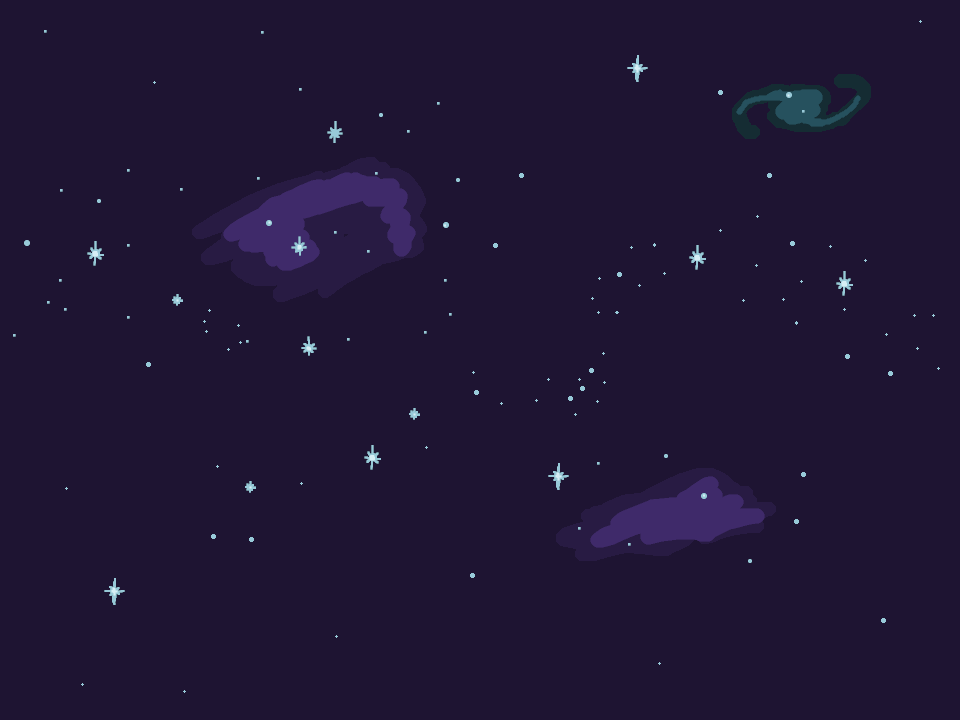
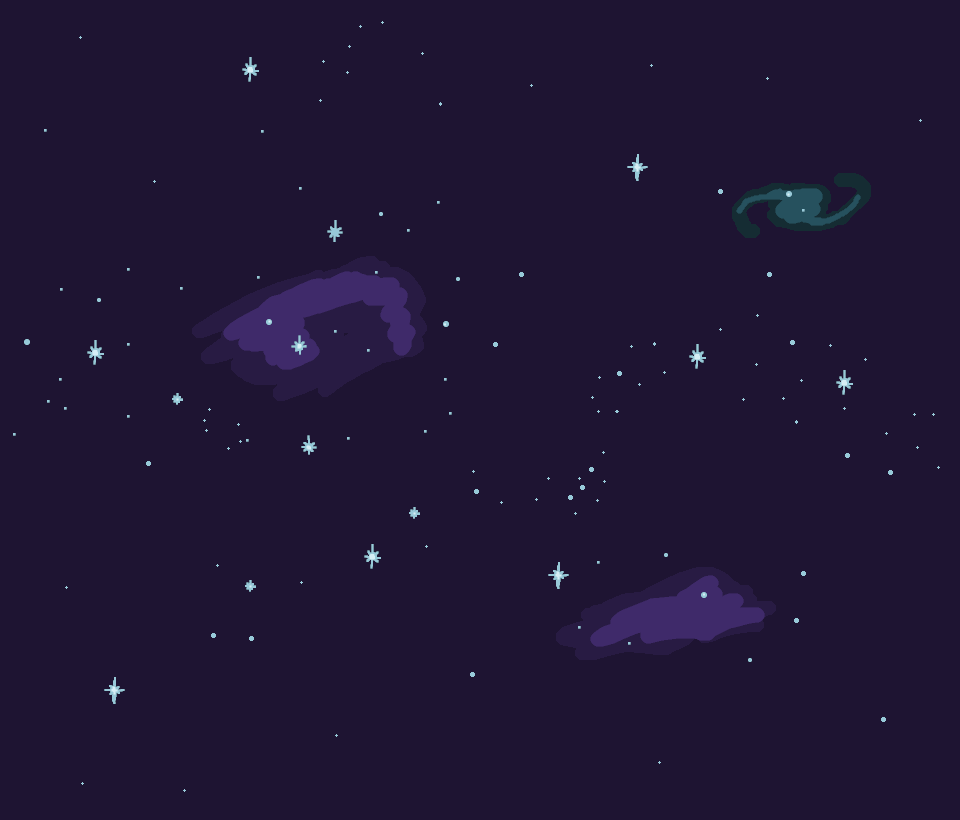
updated initial sprites for player, bullet, scrolling background

diff --git a/src/game.py b/src/game.py
@@ -14,6 +14,8 @@ import minimap
 from pause import PauseView
 from player import Player
 from particle import Particle
+from bullet import Bullet
+from scroll_background import ScrollBackground
 
 # --- Constants ---
 param = data.load_parameters()
@@ -85,6 +87,10 @@ class GameView(arcade.View):
             sprite.center_x = random.randrange(self.level_width)
             sprite.center_y = random.randrange(self.level_height)
             self.enemy_sprite_list.append(sprite)
+        
+        # scrolling background images
+        self.background_list = ScrollBackground(self.window)
+        
 
     def reset_viewport(self):
         """In order to fix views after quit from gameView"""
@@ -100,7 +106,8 @@ class GameView(arcade.View):
                             self.window.width + self.view_left,
                             self.view_bottom,
                             self.window.height + self.view_bottom)
-
+        
+        self.background_list.draw()
         self.star_sprite_list.draw()
         self.enemy_sprite_list.draw()
         self.bullet_sprite_list.draw()
@@ -131,7 +138,7 @@ class GameView(arcade.View):
             for enemy in enemy_hit_list:
                 enemy.remove_from_sprite_lists()
                 for i in range(10):
-                    particle = Particle(4, 4, arcade.color.RED)
+                    particle = Particle(4, 4, arcade.color.GRAY)
                     while particle.change_y == 0 and particle.change_x == 0:
                         particle.change_y = random.randrange(-2, 3)
                         particle.change_x = random.randrange(-2, 3)
@@ -157,6 +164,9 @@ class GameView(arcade.View):
 
         self.view_left = int(self.view_left)
         self.view_bottom = int(self.view_bottom)
+        
+        # Update scrolling background
+        self.background_list.update_scroll(self.view_left, self.view_bottom)
 
     def on_key_press(self, key, modifiers):
         """Called whenever a key is pressed. """
@@ -175,14 +185,7 @@ class GameView(arcade.View):
             self.right_pressed = True
         elif key == arcade.key.SPACE:
             # Shoot out a bullet/laser
-            bullet = arcade.SpriteSolidColor(35, 3, arcade.color.WHITE)
-            bullet.center_x = self.player_sprite.center_x
-            bullet.center_y = self.player_sprite.center_y
-            bullet.change_x = max(12, abs(self.player_sprite.change_x) + 10)
-
-            if not self.player_sprite.face_right:
-                bullet.change_x *= -1
-
+            bullet = Bullet(self.player_sprite)
             self.bullet_sprite_list.append(bullet)
 
     def on_key_release(self, key, modifiers):

diff --git a/src/assets.py b/src/assets.py
@@ -87,3 +87,30 @@ cursor_hover = arcade.Sprite(filename=path_to_string('gfx', 'cursor_hover.png'))
 cursor_idle = arcade.Sprite(filename=path_to_string('gfx', 'cursor_idle.png'))
 cursor_no = arcade.Sprite(filename=path_to_string('gfx', 'cursor_no.png'))
 
+# Player Police Car
+police_textures = []
+police_textures.append([])
+police_textures[-1].append(arcade.load_texture(path_to_string('gfx', 'police_ship001.png')))
+police_textures[-1].append(arcade.load_texture(path_to_string('gfx', 'police_ship001.png'),flipped_horizontally=True))
+police_textures.append([])
+police_textures[-1]
+police_textures[-1].append(arcade.load_texture(path_to_string('gfx', 'police_ship002.png')))
+police_textures[-1].append(arcade.load_texture(path_to_string('gfx', 'police_ship002.png'),flipped_horizontally=True))
+
+# laser explosion sprites
+explode_textures = []
+explode_textures.append(arcade.load_texture(path_to_string('gfx', 'blast001.png')))
+explode_textures.append(arcade.load_texture(path_to_string('gfx', 'blast002.png')))
+explode_textures.append(arcade.load_texture(path_to_string('gfx', 'blast003.png')))
+explode_textures.append(arcade.load_texture(path_to_string('gfx', 'blast004.png')))
+explode_textures.append(arcade.load_texture(path_to_string('gfx', 'blast005.png')))
+explode_textures.append(arcade.load_texture(path_to_string('gfx', 'blast006.png')))
+
+# bullet/laser textures
+bullet_textures = []
+bullet_textures.append(arcade.load_texture(path_to_string('gfx', 'laser001.png')))
+bullet_textures.append(arcade.load_texture(path_to_string('gfx', 'laser001.png'),flipped_horizontally=True))
+
+# Background texture
+background_texture = arcade.load_texture(path_to_string('gfx', 'background.png'))
+

diff --git a/src/player.py b/src/player.py
@@ -8,6 +8,7 @@ Place for Player class.
 import arcade
 # --- Import internal classes ---
 import data
+import assets
 
 # --- Constants ---
 param = data.load_parameters()
@@ -21,14 +22,18 @@ MOVEMENT_DRAG = float(param['PLAYER']['MOVEMENT_DRAG'])
 
 
 
-class Player(arcade.SpriteSolidColor):
+class Player(arcade.Sprite):
     """ Player ship """
     def __init__(self, level_width, level_height):
         """ Set up player """
-        super().__init__(40, 10, arcade.color.SLATE_GRAY)
+        super().__init__()
         self.face_right = True
         self.level_width = level_width
         self.level_height = level_height
+        
+        self.siren_ani = 0
+        self.texture = assets.police_textures[0][0]
+        self.scale = 1.0
 
     def accelerate_up(self):
         """ Accelerate player up """
@@ -87,3 +92,18 @@ class Player(arcade.SpriteSolidColor):
             self.bottom = 0
         elif self.top > self.level_height - 1:
             self.top = self.level_height - 1
+        
+        # update textures
+        self.siren_ani += 1
+        if self.siren_ani > 10:
+            self.siren_ani = 0
+        if self.siren_ani < 5:
+            siren_ani_fram = 0
+        else:
+            siren_ani_fram = 1
+        if self.face_right:
+            heading_ind = 0
+        else:
+            heading_ind = 1
+        self.texture = assets.police_textures[siren_ani_fram][heading_ind]
+        

diff --git a/src/bullet.py b/src/bullet.py
@@ -8,6 +8,9 @@ Place for Bullet class
 import arcade
 # --- Import internal classes ---
 import data
+import assets
+
+from math import fabs
 
 # --- Constants ---
 settings = data.load_settings()
@@ -18,18 +21,26 @@ SCREEN_WIDTH = int(settings['VIDEO']['WINDOW_WIDTH'])
 BULLET_MAX_DISTANCE = SCREEN_WIDTH * 0.75
 
 
-class Bullet(arcade.SpriteSolidColor):
+class Bullet(arcade.Sprite):
     """ Bullet """
 
-    def __init__(self, width, height, color):
-        super().__init__(width, height, color)
+    def __init__(self, player_sprite):
+        super().__init__()
         self.distance = 0
+        self.center_x = player_sprite.center_x
+        self.center_y = player_sprite.center_y
+        self.change_x = max(12, abs(player_sprite.change_x) + 10)
+        if player_sprite.face_right:
+            self.texture = assets.bullet_textures[0]
+        else:
+            self.texture = assets.bullet_textures[1]
+            self.change_x *= -1
 
     def update(self):
         """ Move the particle, and fade out """
         # Move
         self.center_x += self.change_x
         self.center_y += self.change_y
-        self.distance += self.change_x
+        self.distance += fabs(self.change_x)
         if self.distance > BULLET_MAX_DISTANCE:
             self.remove_from_sprite_lists()
